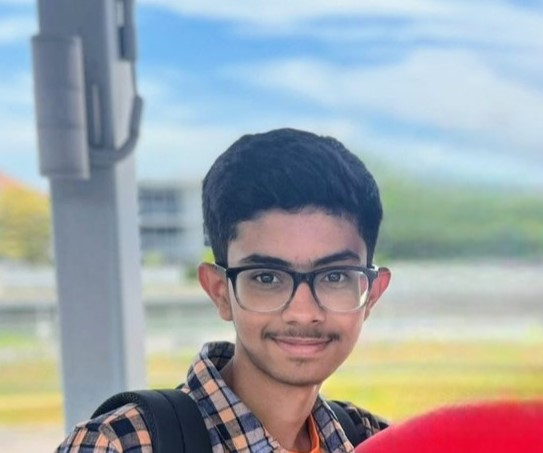
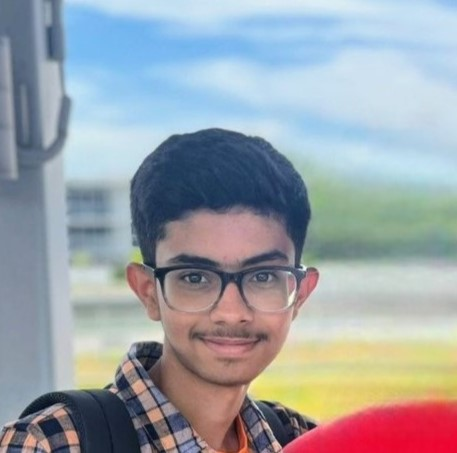
images :skull:

diff --git a/docs/members.html b/docs/members.html
@@ -177,7 +177,7 @@
                             <p class="font-normal">Executive Member</p>
                         </div>
                         <div class="text-center text-gray-900 dark:text-gray-200">
-                            <img class="mx-auto mb-4 w-36 h-36 rounded-full" src="images/random_image.jpg" alt="">
+                            <img class="mx-auto mb-4 w-36 h-36 rounded-full" src="images/tavish_kumar.jpg" alt="Tavish Kumar">
                             <h3 class="mb-1 text-2xl font-bold tracking-tight text-gray-900 dark:text-white">
                                 Tavish Kumar
                             </h3>
